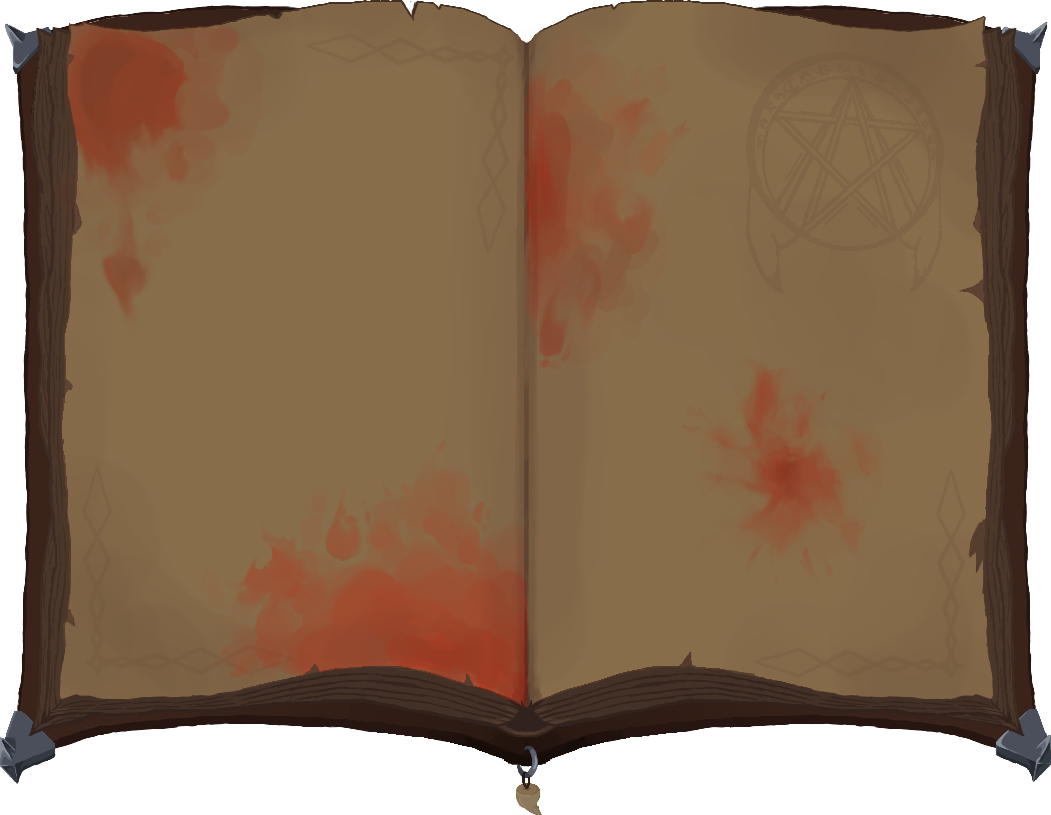
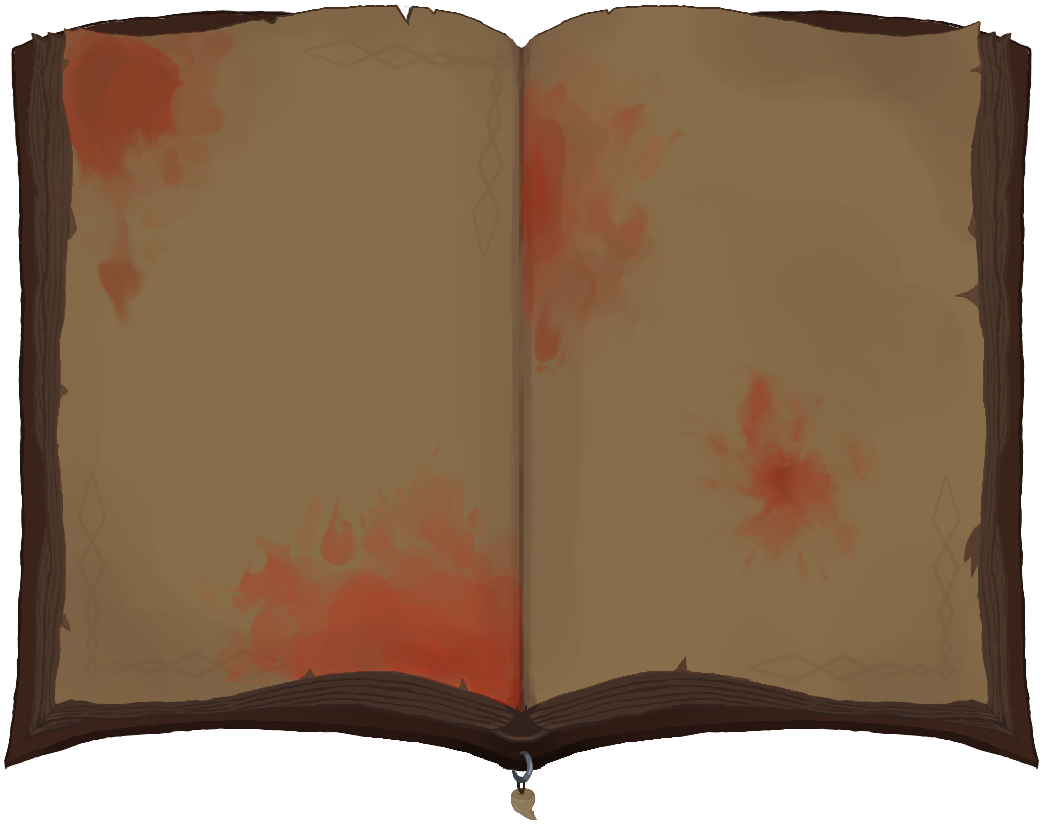
feat(ui): update Ritual Book textures and add DiagramBaseGlyph group

diff --git a/src/main/java/com/epicseed/vampirism/ui/VampiricRitualBookPage.java b/src/main/java/com/epicseed/vampirism/ui/VampiricRitualBookPage.java
@@ -42,8 +42,7 @@ public final class VampiricRitualBookPage extends InteractiveCustomUIPage<Ritual
     private static final int TAB_GUTTER_HEIGHT = 552;
     private static final int TAB_MAX_PER_SIDE = (TAB_GUTTER_HEIGHT + TAB_GAP) / (TAB_HEIGHT + TAB_GAP);
     private static final int PREVIEW_POINT_SIZE = 64;
-    private static final String PREVIEW_BASE_TEXTURE = "Vampirism/Assets/Rituals/Vampirism_RitualGlyph_Base.png";
-    private static final String PREVIEW_CORE_TEXTURE = "Vampirism/Assets/Rituals/Vampirism_RitualGlyph_Core_Calm.png";
+    private static final String PREVIEW_BASE_TEXTURE = "Vampirism/Assets/Rituals/Vampirism_RitualGlyph_Base_Book.png";
     private static final String PREVIEW_NODE_TEXTURE = "Vampirism/Assets/Rituals/Vampirism_RitualGlyph_Node_Inactive.png";
 
     private final VampiricRitualSelectionService selectionService;
@@ -187,8 +186,7 @@ public final class VampiricRitualBookPage extends InteractiveCustomUIPage<Ritual
             cmd.set("#RewardsText.Text", "");
             cmd.set("#AttuneBtnLabel.Text", "Attuned");
             cmd.set("#AttuneBtn.Disabled", true);
-            cmd.set("#DiagramBase.Background", PREVIEW_BASE_TEXTURE);
-            cmd.set("#DiagramCore.Background", PREVIEW_CORE_TEXTURE);
+            cmd.set("#DiagramBaseGlyph.Background", PREVIEW_BASE_TEXTURE);
             return;
         }
 
@@ -205,8 +203,7 @@ public final class VampiricRitualBookPage extends InteractiveCustomUIPage<Ritual
         cmd.set("#RewardsText.Text", model.rewardsText());
         cmd.set("#AttuneBtnLabel.Text", attuneButtonText());
         cmd.set("#AttuneBtn.Disabled", selectedRitualAlreadyAttuned());
-        cmd.set("#DiagramBase.Background", PREVIEW_BASE_TEXTURE);
-        cmd.set("#DiagramCore.Background", PREVIEW_CORE_TEXTURE);
+        cmd.set("#DiagramBaseGlyph.Background", PREVIEW_BASE_TEXTURE);
     }
 
     private void renderTabsState(@Nonnull UICommandBuilder cmd) {